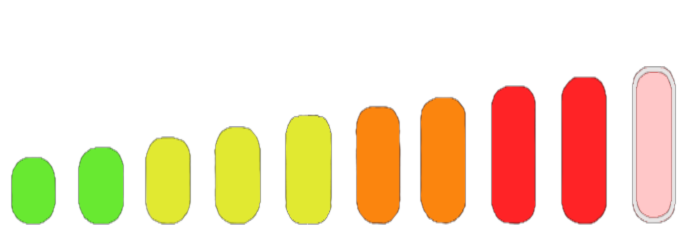
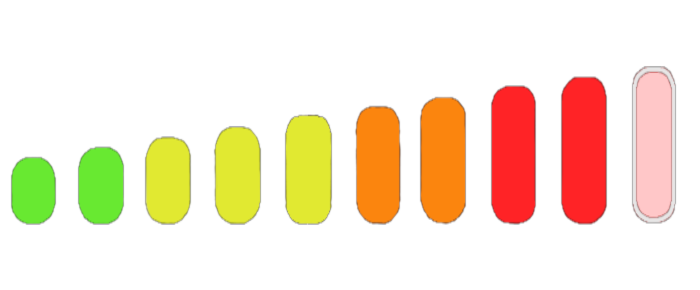
Risk Image Labels

diff --git a/css/styles.css b/css/styles.css
@@ -358,8 +358,8 @@ button:hover, .screen-button:hover {
     line-height: 150%;
     text-align: justify;
     width: 95%;
-    margin-top: -10%;
-    margin-bottom: -2%;
+    margin-top: -13%;
+    margin-bottom: 1%;
     margin-inline: auto;
 }
 
@@ -369,6 +369,7 @@ button:hover, .screen-button:hover {
     align-self: center;
     width: 95%;
     height: auto;
+    margin-top: 5%;
 }
 
 .result-image {

diff --git a/risk-calc-WP.html b/risk-calc-WP.html
@@ -367,8 +367,8 @@ button:hover, .screen-button:hover {
     line-height: 150%;
     text-align: justify;
     width: 95%;
-    margin-top: -10%;
-    margin-bottom: -2%;
+    margin-top: -13%;
+    margin-bottom: 1%;
     margin-inline: auto;
 }
 
@@ -378,6 +378,7 @@ button:hover, .screen-button:hover {
     align-self: center;
     width: 95%;
     height: auto;
+    margin-top: 5%;
 }
 
 .result-image {
